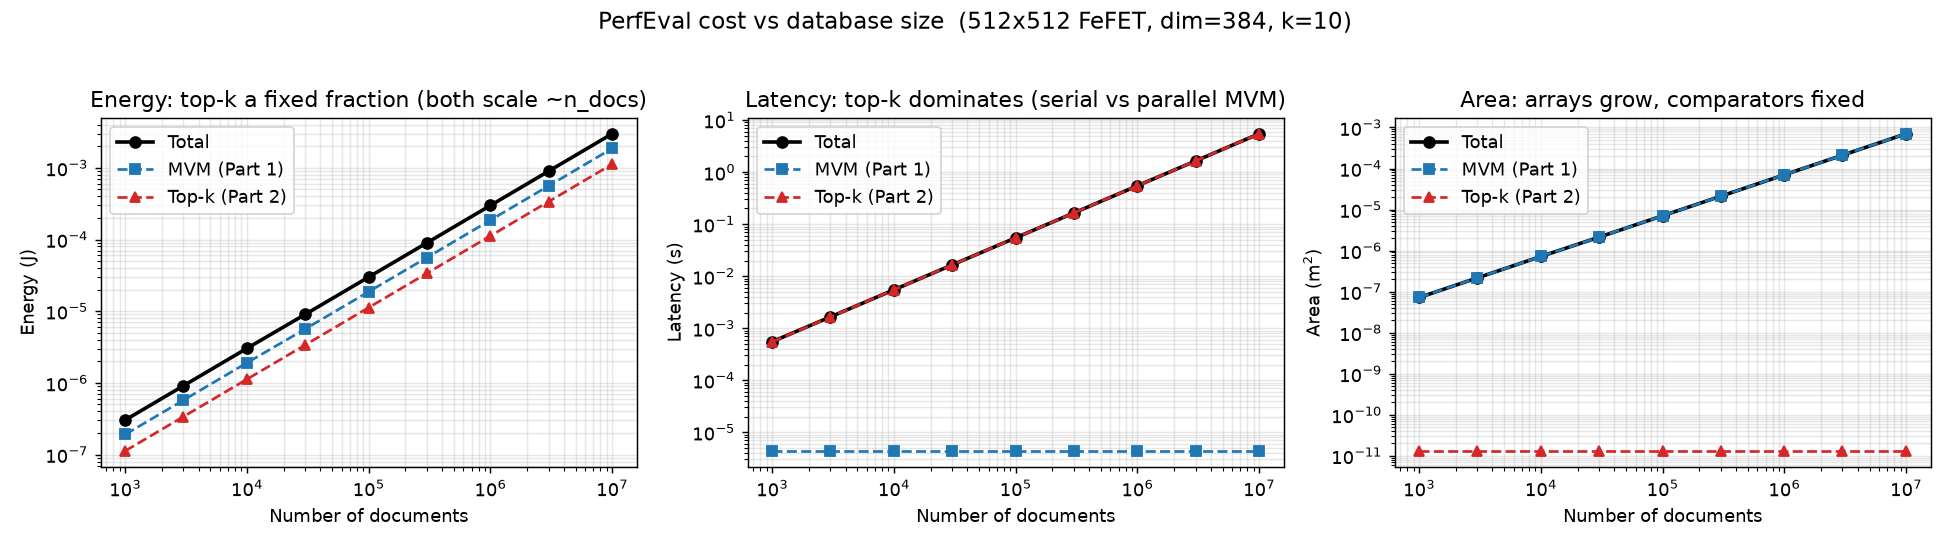
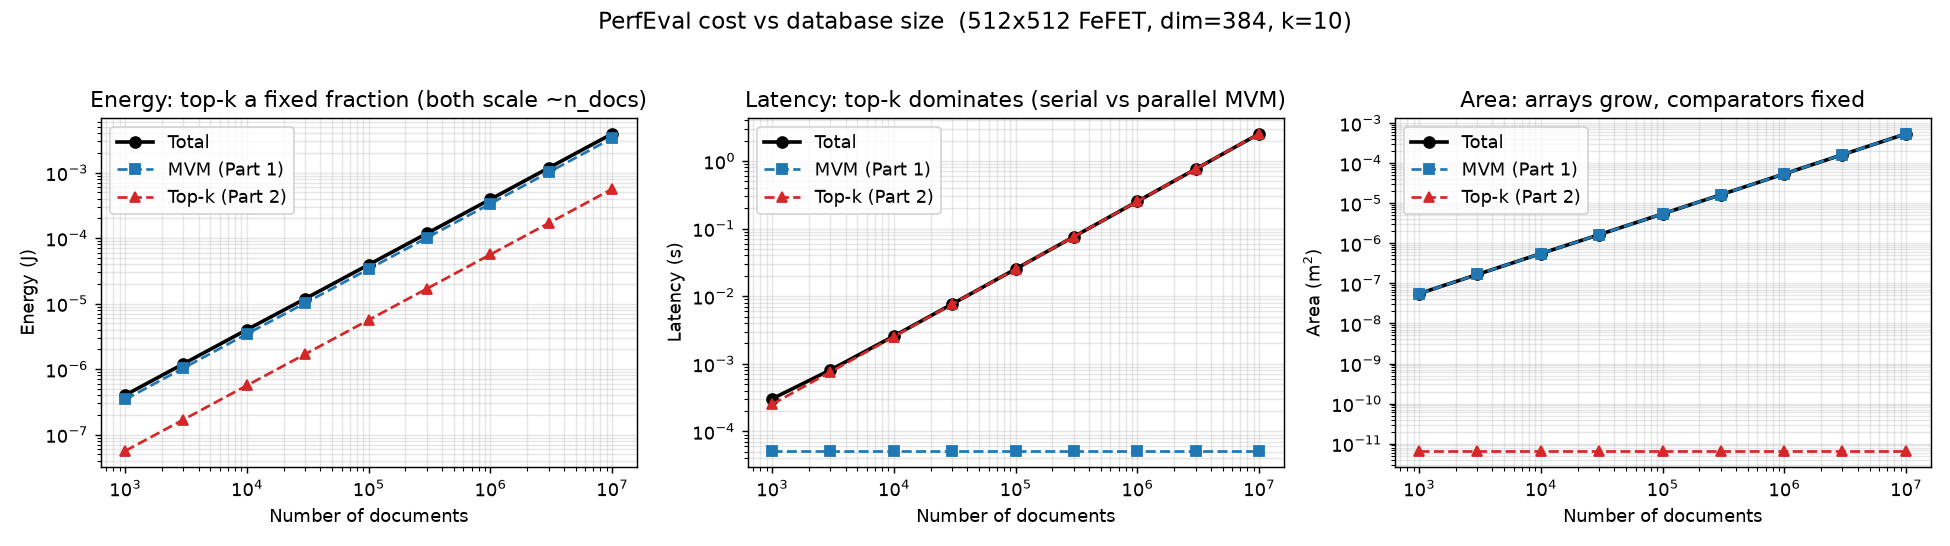
Added model dimensional splitting for accuracy too

diff --git a/modules/CAMASIM/CAMASim/evaluate.py b/modules/CAMASIM/CAMASim/evaluate.py
@@ -67,7 +67,8 @@ class UnifiedResult:
     n_queries: int
     k: int
     noise_type: str
-    num_doc_arrays: int          # how many arrays the docs were tiled across
+    num_doc_arrays: int          # arrays the docs were tiled across (columns)
+    num_dim_arrays: int          # arrays one dot product was split across (rows)
 
     perfeval: dict = field(default_factory=dict)
 
@@ -93,23 +94,50 @@ def _load_array_cost(hardware):
     raise ValueError("config['hardware'] must be an array_cost dict or a path to array_cost.json")
 
 
-def _run_functional(docs, queries, k, noise, array_cols):
+def _array_scores(docs, queries, noise, array_rows):
+    """Noisy scores for one document tile, splitting the embedding DIMENSION
+    across arrays when dim > array_rows.
+
+    Each dim-slice is a separate physical array: its PARTIAL dot product is
+    ADC-quantized and read-noised inside crossbar_innerproduct_pairwise, and the
+    partials are then summed -- the same recombination the cost side (perfeval)
+    charges an adder for. When dim <= array_rows this is a single array and the
+    behaviour is byte-identical to calling the crossbar once.
+    """
+    dim = docs.shape[1]
+    if not array_rows or array_rows <= 0 or dim <= array_rows:
+        return crossbar_innerproduct_pairwise(docs, queries, noise)
+    scores = None
+    for s in range(0, dim, array_rows):
+        e = min(dim, s + array_rows)
+        # slice BOTH docs and queries to the same dim window -> partial dot product,
+        # ADC-quantized + read-noised by the crossbar for this one array
+        partial = crossbar_innerproduct_pairwise(docs[:, s:e], queries[:, s:e], noise)
+        scores = partial if scores is None else scores + partial
+    return scores
+
+
+def _run_functional(docs, queries, k, noise, array_cols, array_rows):
     """Noisy retrieval -> predicted top-k indices per query.
 
-    One array if docs fit (n_docs <= array_cols); otherwise tile docs across
-    arrays with per-array fresh read noise, noisy local top-k, and a noisy merge.
-    Returns (pred_list, num_tiles).
+    Tiling mirrors the hardware: documents are split across arrays when
+    n_docs > array_cols (doc tiling), and the embedding dimension is split when
+    dim > array_rows (dim tiling, via _array_scores). Read noise is fresh per
+    array; the local top-k and cross-array merge carry comparator noise.
+    Returns (pred_list, num_doc_arrays, num_dim_tiles).
     """
     n_docs = docs.shape[0]
+    dim = docs.shape[1]
     n_queries = queries.shape[0]
     sigma_compare = float(noise.get("sigma_compare", 0.0))
     num_tiles = int(math.ceil(n_docs / array_cols)) if array_cols and array_cols > 0 else 1
+    num_dim_tiles = int(math.ceil(dim / array_rows)) if array_rows and array_rows > 0 else 1
 
-    # --- single array: one selection (comparator error at that one point) ---
+    # --- single array bank: one selection (comparator error at that one point) ---
     if num_tiles <= 1:
-        scores = crossbar_innerproduct_pairwise(docs, queries, noise)
+        scores = _array_scores(docs, queries, noise, array_rows)
         pred, _ = get_array_topk_results(scores, k, sigma_compare=sigma_compare)
-        return pred, 1
+        return pred, 1, num_dim_tiles
 
     # --- multi array: per-array local top-k, then merge ---
     cand_idx = [[] for _ in range(n_queries)]
@@ -118,7 +146,7 @@ def _run_functional(docs, queries, k, noise, array_cols):
         s = t * array_cols
         e = min(n_docs, (t + 1) * array_cols)
         # fresh read noise per array; write noise frozen within this one call
-        tile_scores = crossbar_innerproduct_pairwise(docs[s:e], queries, noise)
+        tile_scores = _array_scores(docs[s:e], queries, noise, array_rows)
         local_idx, local_score = get_array_topk_results(tile_scores, k, sigma_compare=sigma_compare)
         for qi in range(n_queries):
             cand_idx[qi].extend((np.asarray(local_idx[qi]) + s).tolist())
@@ -126,7 +154,7 @@ def _run_functional(docs, queries, k, noise, array_cols):
 
     pred = [topk_merge(cand_idx[qi], cand_score[qi], k, sigma_compare=sigma_compare)
             for qi in range(n_queries)]
-    return pred, num_tiles
+    return pred, num_tiles, num_dim_tiles
 
 
 def evaluate(config, docs=None, queries=None, qrels=None) -> UnifiedResult:
@@ -157,11 +185,12 @@ def evaluate(config, docs=None, queries=None, qrels=None) -> UnifiedResult:
 
     array_cost = _load_array_cost(config["hardware"])
     array_cols = int(array_cost.get("hardware", {}).get("array", {}).get("cols", n_docs))
+    array_rows = int(array_cost.get("hardware", {}).get("array", {}).get("rows", dim))
 
     # 2. Functional line -> Recall@k, nDCG@k under the chosen noise model.
     noise = dict(config.get("noise", {}))
     gt = ideal_topk(docs, queries, k)                       # exact noiseless ground truth
-    pred, num_doc_arrays = _run_functional(docs, queries, k, noise, array_cols)
+    pred, num_doc_arrays, num_dim_arrays = _run_functional(docs, queries, k, noise, array_cols, array_rows)
     recall = recall_at_k(pred, gt)
     ndcg = ndcg_at_k(pred, gt)
 
@@ -184,6 +213,7 @@ def evaluate(config, docs=None, queries=None, qrels=None) -> UnifiedResult:
         n_docs=n_docs, dim=dim, n_queries=n_queries, k=k,
         noise_type=noise.get("noise_type", "gaussian"),
         num_doc_arrays=num_doc_arrays,
+        num_dim_arrays=num_dim_arrays,
         perfeval=asdict(report),
     )
 